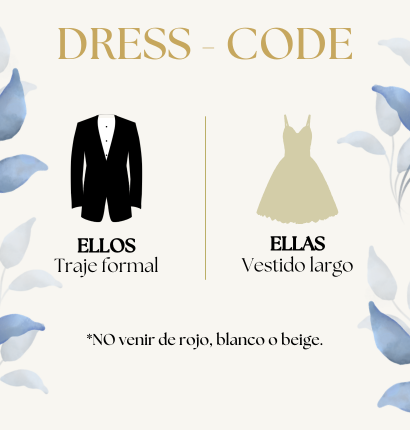
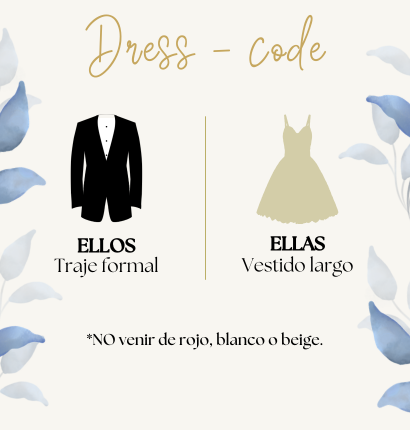
Cambios en la pagina principal

diff --git a/src/components/boda/CountDownDate.tsx b/src/components/boda/CountDownDate.tsx
@@ -2,7 +2,7 @@ import { span } from "framer-motion/client";
 import { useEffect, useState } from "react";
 
 interface TimeLeft {
-  dias: number;
+  días: number;
   horas: number;
   minutos: number;
   segundos: number;
@@ -16,11 +16,11 @@ export default function CountDownElegant({ date }: { date: string }) {
     const difference = targetDate - now;
 
     if (difference <= 0) {
-      return { dias: 0, horas: 0, minutos: 0, segundos: 0 };
+      return { días: 0, horas: 0, minutos: 0, segundos: 0 };
     }
 
     return {
-      dias: Math.floor(difference / (1000 * 60 * 60 * 24)),
+      días: Math.floor(difference / (1000 * 60 * 60 * 24)),
       horas: Math.floor((difference / (1000 * 60 * 60)) % 24),
       minutos: Math.floor((difference / (1000 * 60)) % 60),
       segundos: Math.floor((difference / 1000) % 60),

diff --git a/src/components/boda/GiftTable.tsx b/src/components/boda/GiftTable.tsx
@@ -19,17 +19,17 @@ export default function GiftTable({ stores }: Props) {
         whileInView={{ opacity: 1, y: 0 }}
         transition={{ duration: 1 }}
         viewport={{ once: true }}
-        className="p-8 md:p-12 text-center"
+        className="px-5 py-2 md:p-12 text-center"
       >
         {/* Ícono */}
         <img
           src="/boda/gift.png"
           alt="Mesa de regalos"
-          className="w-24 h-auto mx-auto mb-6"
+          className="w-24 h-auto mx-auto mb-1"
         />
 
         {/* Título */}
-        <h2 className="titulo font-bold text-[58px] text-gold-500 mb-4">
+        <h2 className="titulo font-bold text-[58px] text-gold-500 mb-2">
           Regalos
         </h2>
 